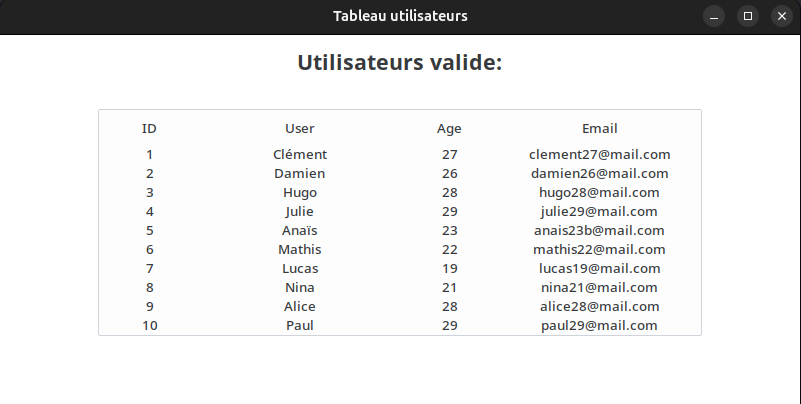
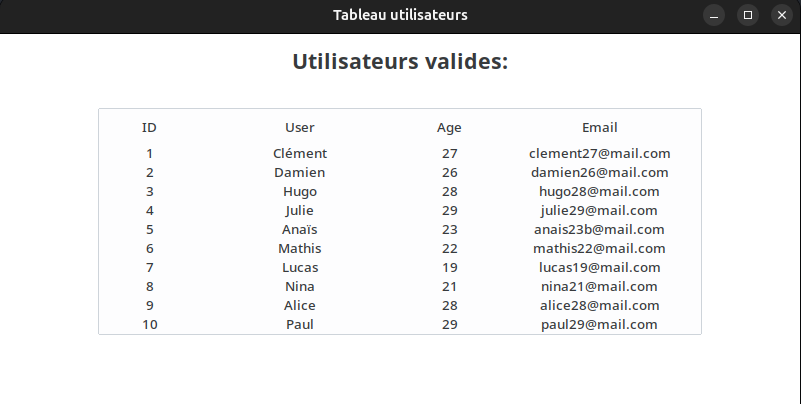
rectification screenshots

diff --git a/app.py b/app.py
@@ -11,7 +11,7 @@ class Application(ttk.Window):
         self.geometry('800x400')
 
         #Text titre
-        label = ttk.Label(self, text = 'Utilisateurs valide:', font = 'Poppins 16 bold')
+        label = ttk.Label(self, text = 'Utilisateurs valides:', font = 'Poppins 16 bold')
         label.pack(pady=10)
 
         #Création du tableau utilisateurs valide
